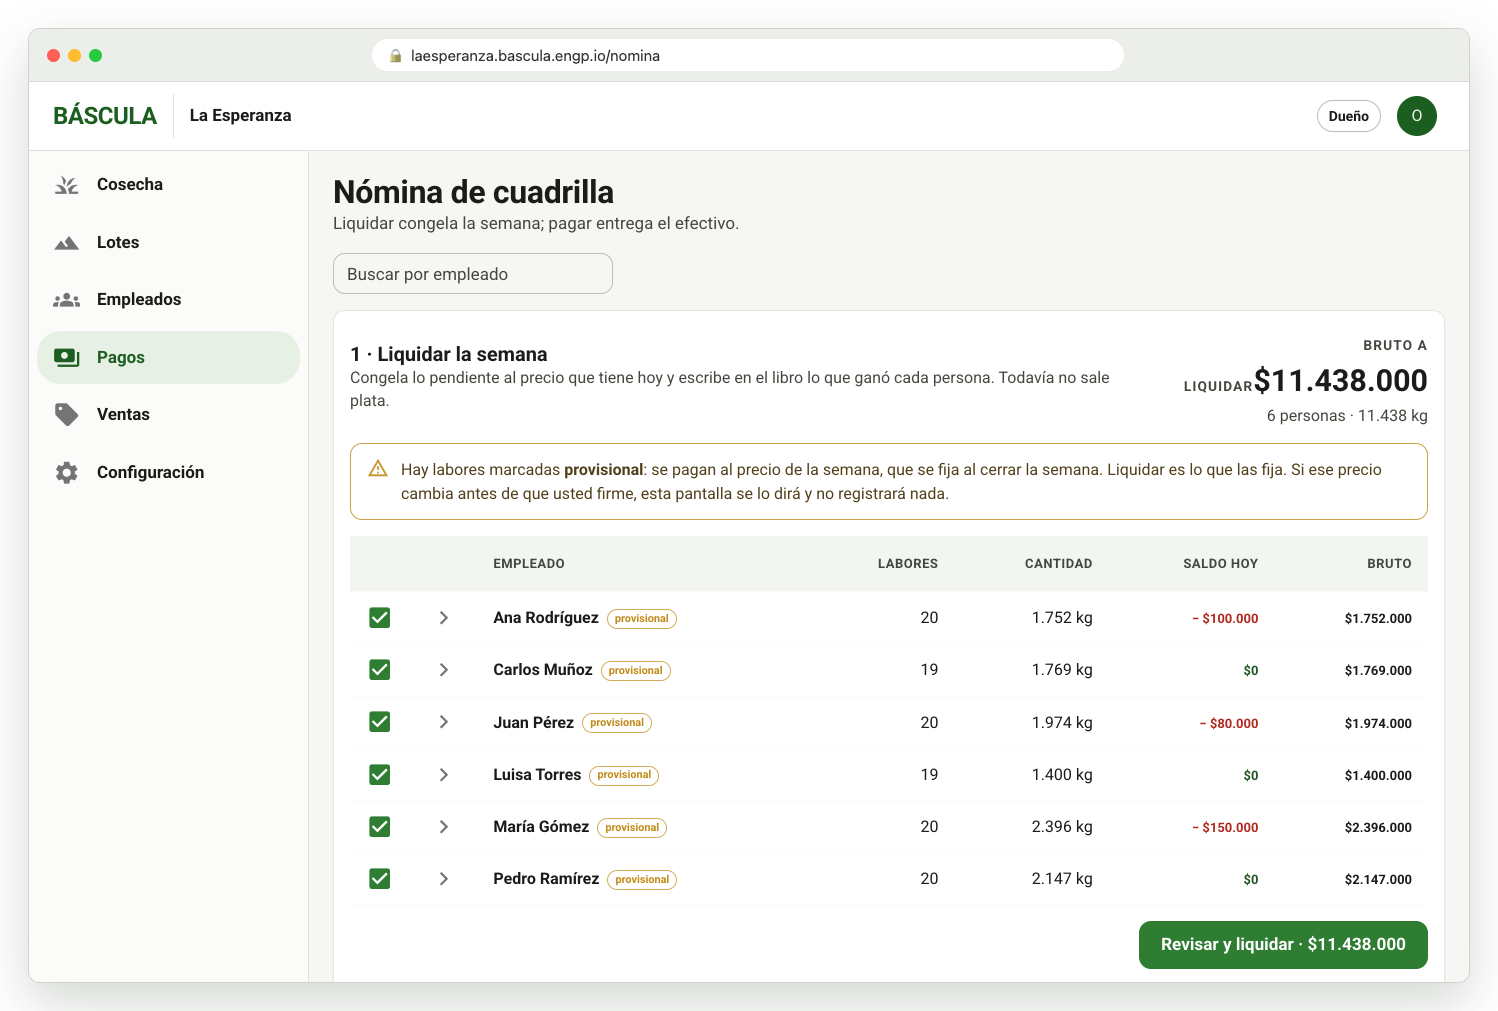
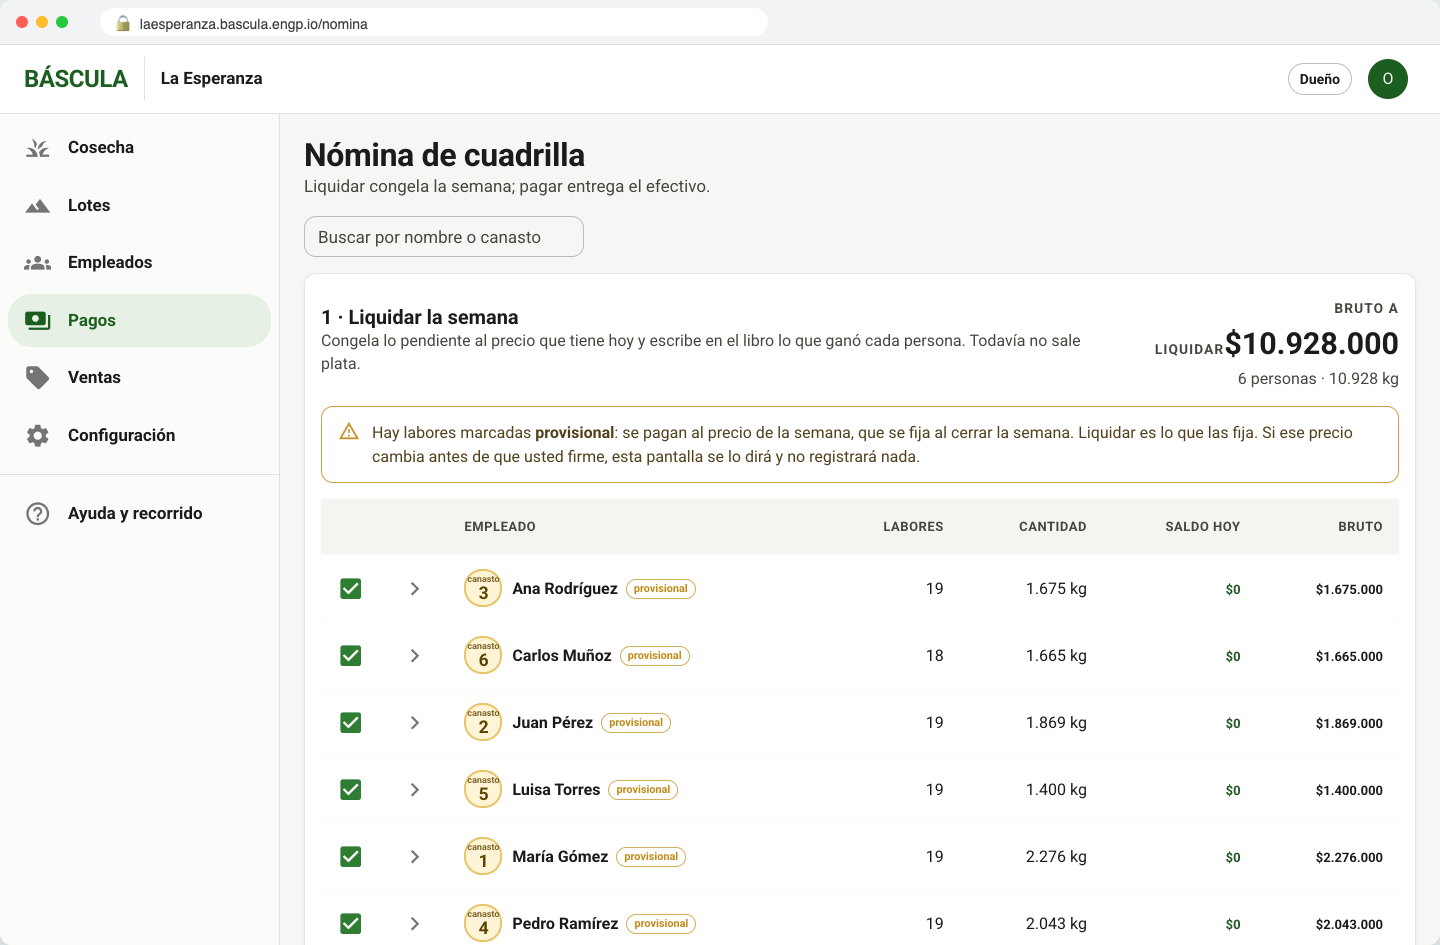
docs: refresh README screenshots with the current app and add main screens

diff --git a/docs/screenshots/README.md b/docs/screenshots/README.md
@@ -5,10 +5,13 @@
 | File | Screen |
 |---|---|
 | `web-desktop-home.png` | Harvest dashboard (`/cosecha`) in a desktop browser |
+| `web-desktop-register.png` | Recording one weighing (`/cosecha/recoleccion`) |
 | `web-desktop-week.png` | One week: kilos per day and per picker (`/cosecha/semana/:lunes`) |
 | `web-desktop-account.png` | A picker's profile and balance (`/empleados/:id`) |
 | `web-desktop-payroll.png` | Crew payroll (`/nomina`) |
 | `web-desktop-crops.png` | Harvest per crop and lot (`/cosecha/cultivos`) |
+| `web-desktop-workers.png` | Workers and what the farm owes each one (`/empleados`) |
+| `web-desktop-lots.png` | Lots with area and crops (`/lotes`) |
 
 The landing (`apps/web/public/landing/app/`) uses JPEG captures made the same way
 at 1280×800, in a tighter browser-window frame: dashboard, recording a weighing,
@@ -18,8 +21,9 @@ the week, kilos per picker, payroll, paying a picker, a picker's account and lot
 
 1. `npm run dev` in `apps/web` with the mock API (`VITE_USE_MOCKS=true`).
 2. In one browser page (the mock keeps its data in memory, so no reloads):
-   sign up a new farm, open **«Configuración» (Settings) → «Cargar datos de demostración» (Load demo data)**,
-   and add a few advances. Navigate with client-side routing.
+   sign in as `oscar@laesperanza.co` / `esperanza` and empty the seeded farm's workers,
+   work records, settlements and ledger (or sign up a new farm), then open **«Configuración» (Settings) → «Cargar datos de demostración» (Load demo data)**,
+   Navigate with client-side routing.
 3. Capture at 1440×900 (1280×800 for the landing) at 2× with Playwright,
    hiding the «Datos de prueba» (Demo data) banner.
 4. Frame them in a browser window with the farm's address

diff --git a/README.md b/README.md
@@ -14,10 +14,13 @@ plain Spanish, built for people around fifty who don't live in software.
   <img src="docs/screenshots/web/web-desktop-home.png" width="100%" alt="The harvest dashboard in a desktop browser" />
 </p>
 <p align="center">
-  <img src="docs/screenshots/web/web-desktop-week.png"    width="49%" alt="One week: kilos per day and per picker" />
-  <img src="docs/screenshots/web/web-desktop-payroll.png" width="49%" alt="Crew payroll" />
-  <img src="docs/screenshots/web/web-desktop-account.png" width="49%" alt="A picker's profile and balance" />
-  <img src="docs/screenshots/web/web-desktop-crops.png"   width="49%" alt="Harvest per crop and lot" />
+  <img src="docs/screenshots/web/web-desktop-register.png" width="49%" alt="Recording one weighing: person, lot, day and kilos" />
+  <img src="docs/screenshots/web/web-desktop-week.png"     width="49%" alt="One week: kilos per day and per picker" />
+  <img src="docs/screenshots/web/web-desktop-workers.png"  width="49%" alt="Workers and what the farm owes each one" />
+  <img src="docs/screenshots/web/web-desktop-account.png"  width="49%" alt="A picker's profile and balance" />
+  <img src="docs/screenshots/web/web-desktop-payroll.png"  width="49%" alt="Crew payroll" />
+  <img src="docs/screenshots/web/web-desktop-crops.png"    width="49%" alt="Harvest per crop and lot" />
+  <img src="docs/screenshots/web/web-desktop-lots.png"     width="49%" alt="Lots with area and crops" />
 </p>
 
 <sub>Screens use demo data. More in [`docs/screenshots`](docs/screenshots/README.md).</sub>
